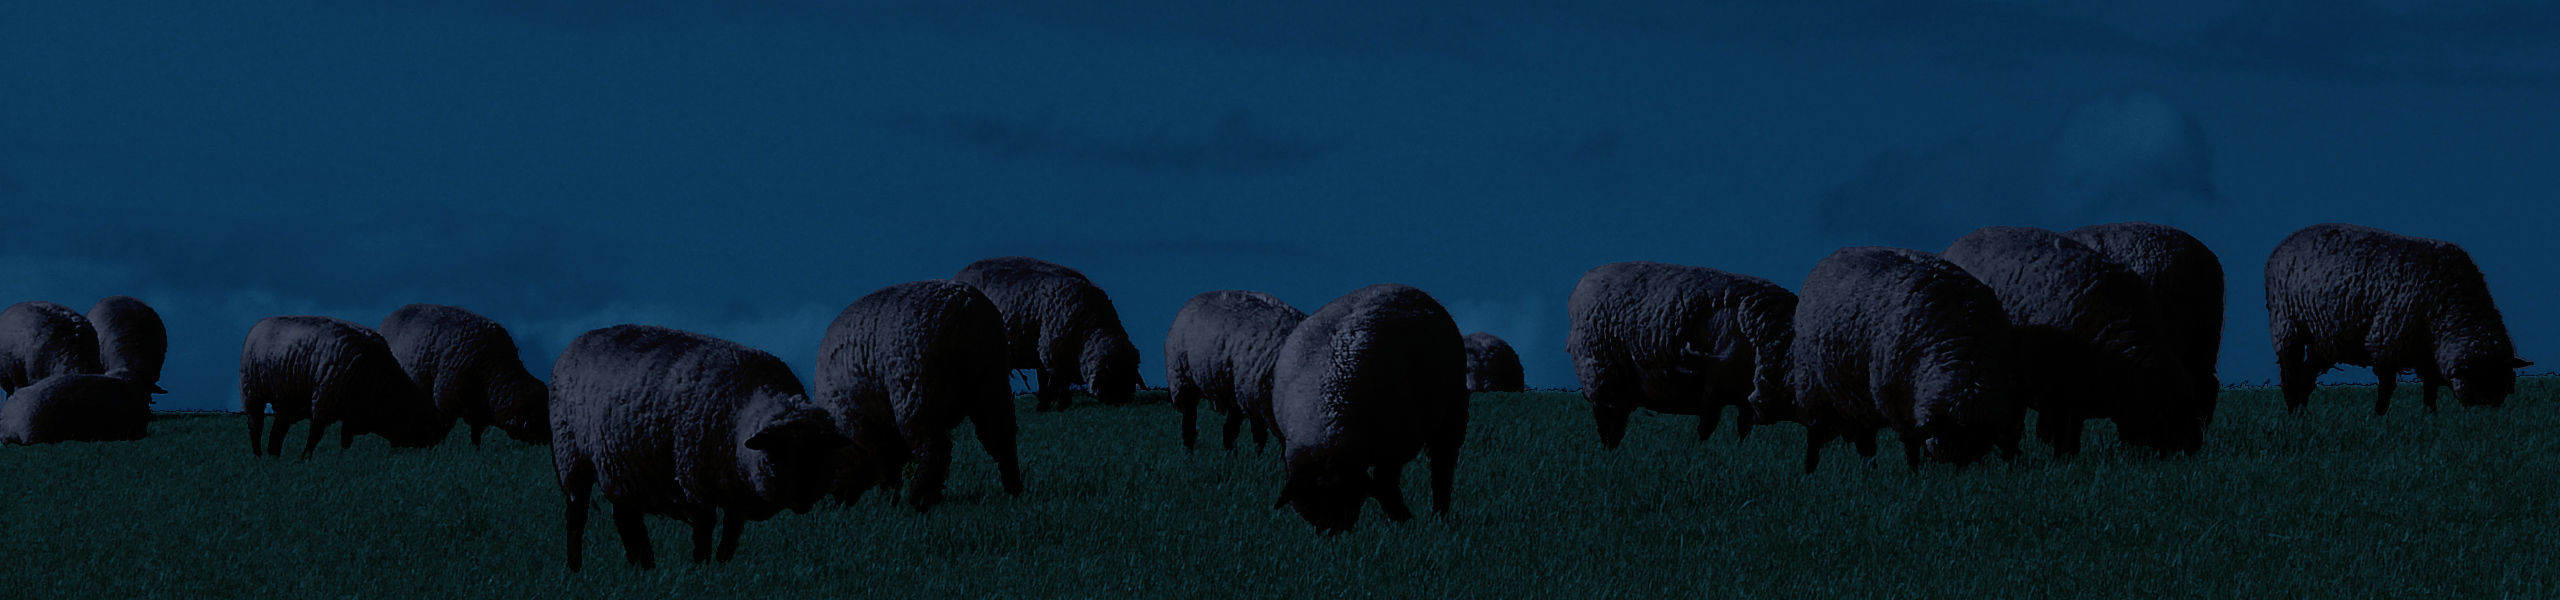
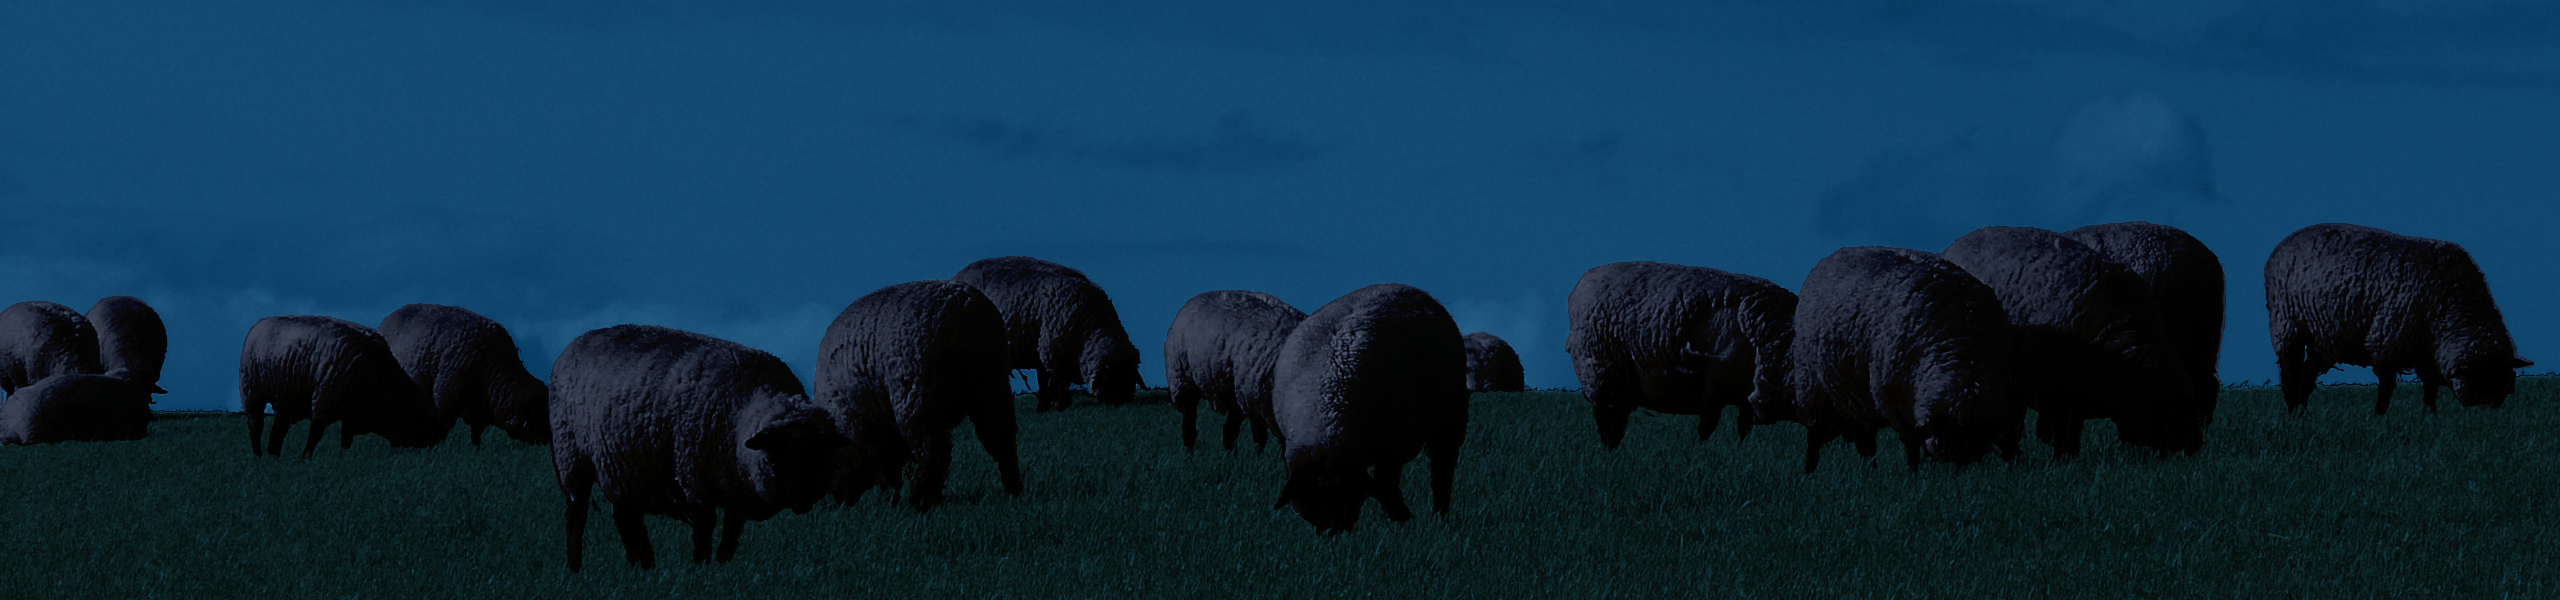
Tweak colors.

diff --git a/themes/workrave/assets/css/imports/base.css b/themes/workrave/assets/css/imports/base.css
@@ -57,7 +57,7 @@ body {
 }
 
 .hero {
-    background: url(/images/hero1.jpg) bottom center no-repeat rgba(30, 64, 90, 1);
+    background: url(/images/hero1.jpg) bottom center no-repeat var(--jumbotron-background-color);
     background-size: auto auto;
 }
 
@@ -72,12 +72,12 @@ body {
 
  @media screen and (max-width: 992px) {
     .navbar-collapse {
-        background-color: #343a40;
+        background-color: var(--navbar-collapse-bg-color);
         padding-left: 10px;
     }
 
     .navbar .dropdown-menu {
-        background-color: #343a40;
+        background-color: var(--navbar-collapse-bg-color);
         border: 0px;
     }
 }
@@ -87,7 +87,7 @@ body {
 }
 
 .navbar.scrolled {
-    background: var(--navbar-bg-color);
+    background: var(--jumbotron-background-color);
     box-shadow: 0 4px 10px rgba(0,0,0,.1);
     height: 66px;
 }
@@ -104,7 +104,7 @@ body {
 }
 
 .navbar .dropdown-menu {
-    background: var(--navbar-menu-bg-color);
+    background: var(--navbar-bg-color);
 }
 
 .navbar .dropdown-item {
@@ -114,7 +114,7 @@ body {
 .navbar .dropdown-item:hover,
 .navbar .dropdown-item:focus {
     color: var(--navbar-hover-text-color);
-    background-color: var(--navbar-highlight-bg-color);
+    background-color: var(--navbar-hover-bg-color);
 }
 
 .navbar-nav > li {
@@ -124,7 +124,7 @@ body {
 
 .navbar-light .navbar-nav .nav-item:hover::after,
 .navbar-light .navbar-nav .nav-item.active::after {
-    border-bottom: 3px solid var(--navbar-menu-bg-color);;
+    border-bottom: 3px solid var(--navbar-bg-color);
     bottom: 0px;
     content: " ";
     left: 0;
@@ -146,7 +146,6 @@ body {
 .nav-pills .disabled {
     background-color: rgba(230, 230, 230, 1);
 }
-
 
 .nav-pills .nav-link:not(.disabled) {
     background-color: var(--background-color);

diff --git a/themes/workrave/assets/css/imports/setup.css b/themes/workrave/assets/css/imports/setup.css
@@ -1,30 +1,15 @@
 :root {
-    --text-color:               rgba(45, 45, 45, 1);
-    --light-text-color:         rgba(90, 90, 90, 1);
-    --muted-text-color:         rgba(150, 150, 150, 1);
-    
-    --text-color-on-dark:       rgba(255, 255, 255, 1);
+    --light-text-color:             rgba(90, 90, 90, 1);
+    --background-color:             rgba(255, 255, 255, 1);
+    --muted-background-color:       rgba(240, 240, 240, 1);
 
-    --background-color:         rgba(255, 255, 255, 1);
-    --muted-background-color:   rgba(240, 240, 240, 1);
+    --navbar-hover-text-color:      rgba(255, 255, 255, 1);
+    --navbar-hover-bg-color:        rgba(94, 139, 207, 0.8);
 
-    --border-color:             rgba(220, 220, 220, 1);
-    --shadow-color:             rgba(230, 230, 230, 1);
+    --navbar-text-color:            rgba(255, 255, 255, 1);
+    --navbar-bg-color:              rgb(30, 98, 153); 
 
-    --link-color:               #5577cc;
-    --link-visited-color:       #3366aa;
-    --link-hover-color:         #000000;
+    --navbar-collapse-bg-color:     rgb(9, 53, 88); 
 
-    --navbar-hover-text-color:  rgba(0, 0, 0, 1);
-    --navbar-text-color:        rgba(255,255,255,1);
-    --navbar-highlight-bg-color:  rgba(94, 139, 207, 0.8);
-    --navbar-menu-bg-color:     rgba(94, 139, 207, 0.8);
-    --navbar-bg-color:          rgba(30, 64, 90, 0.95);
-
-    --header-bg-color:          rgba(30, 64, 90, 1);
-
-    --feature-color:            rgba(78, 154, 6, 0.07);
-
-    --section-color-1:          rgba(78, 154, 6, 0.5);
-    --section-color-2:          rgba(114, 159, 207, 0.5);
+    --jumbotron-background-color:   rgba(14, 70, 115, 1); 
 }

diff --git a/themes/workrave/assets/sass/config.scss b/themes/workrave/assets/sass/config.scss
@@ -1,4 +1,4 @@
 $primary: #5577cc;
-$jumbotron-bg: rgba(10, 56, 91, 1);
+$jumbotron-bg: rgba(14, 70, 115, 1);
 
 $enable-deprecation-messages: true;
